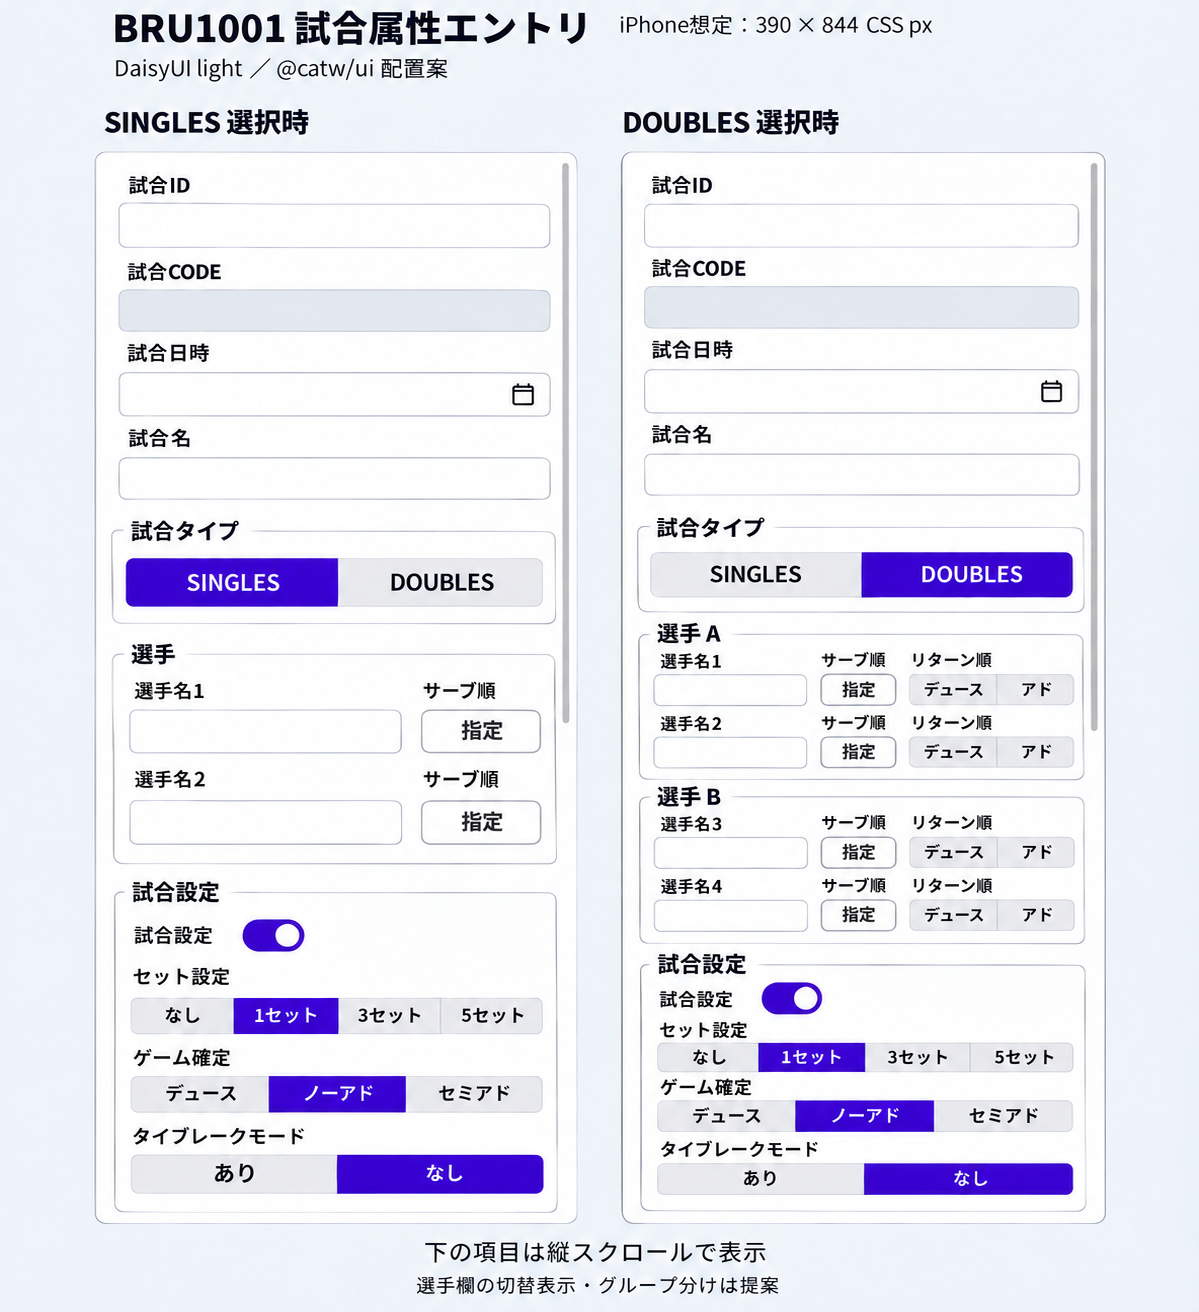
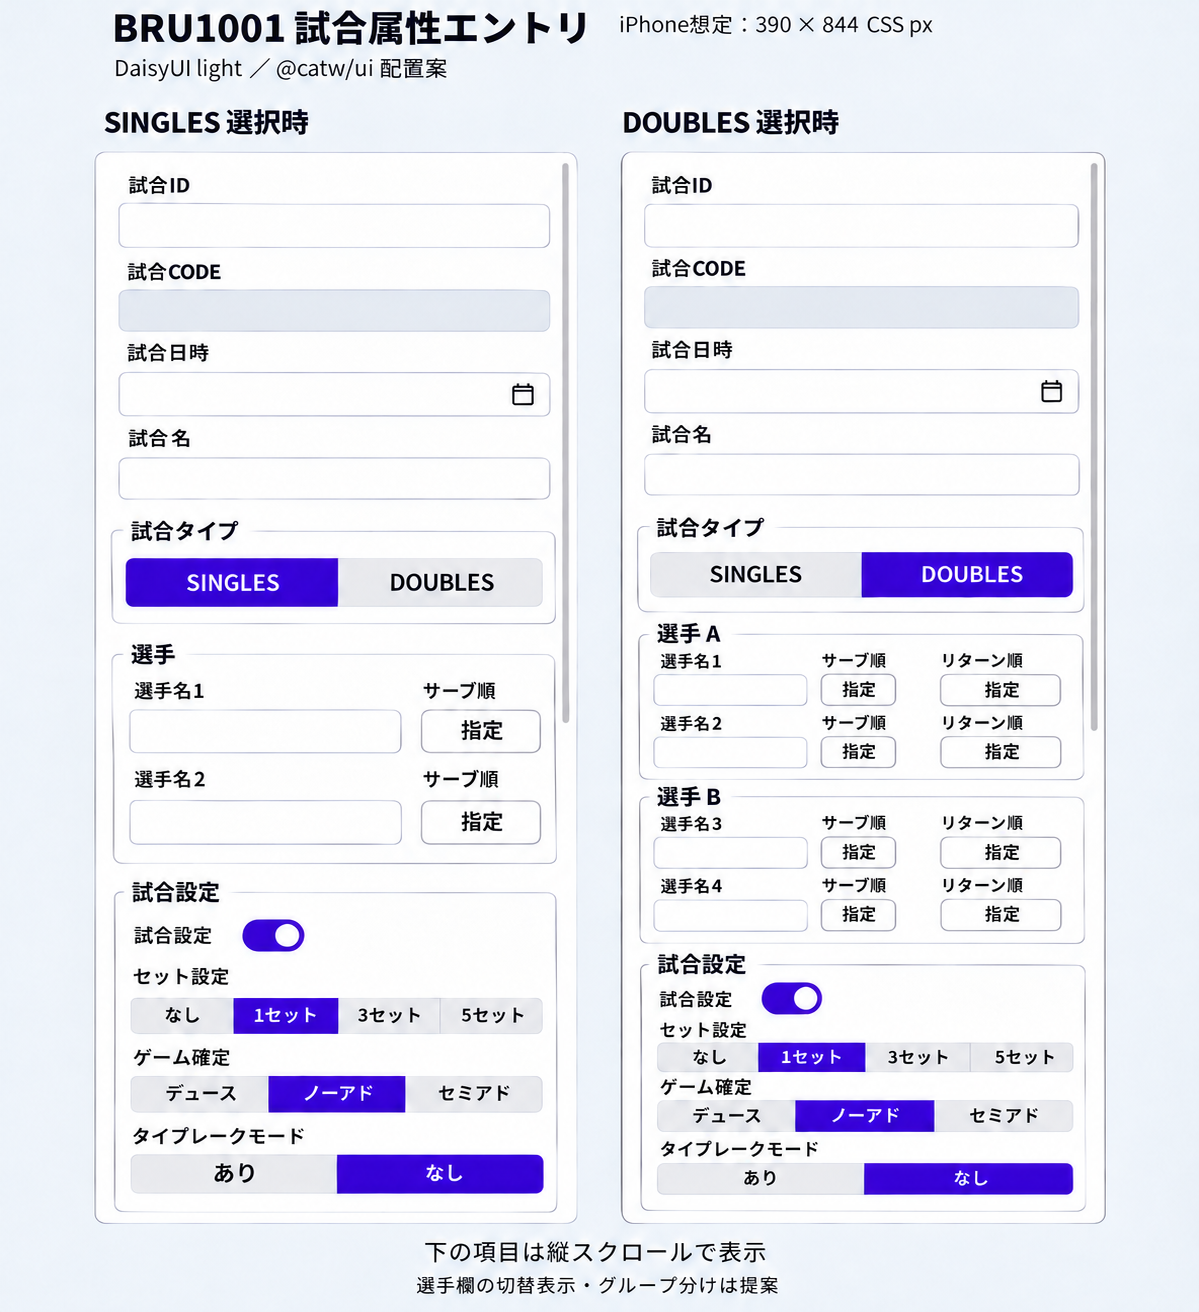
docs: switch BRU1001 return side with one button

diff --git a/09_画面設計書/04_画面設計書(BRU1001：試合属性エントリ).md b/09_画面設計書/04_画面設計書(BRU1001：試合属性エントリ).md
@@ -108,9 +108,8 @@ io\github\soracity\bruce\brf1000\brf1001\ui\dto
 
 ##### リターン順ボタン
 
-- DOUBLESの各選手の行に、「デュース」「アド」の2つのボタンを表示する。
+- DOUBLESの各選手の行に、リターン順を切り替えるボタンを1つ表示する。
 - 各行は左から「選手名」「サーブ順」「リターン順」の順に配置する。
-- リターン順は選手ごとの排他選択とし、同じ選手で両方を同時に選択できない。
 - SINGLESではリターン順ボタンを表示しない。
 
 | 選手 | 対象のDTO項目 |
@@ -120,18 +119,25 @@ io\github\soracity\bruce\brf1000\brf1001\ui\dto
 | 選手3（B1） | `returnNoDoublesPlayerB1` |
 | 選手4（B2） | `returnNoDoublesPlayerB2` |
 
-| ボタン表示 | 設定するEnum | コード値 |
-| --- | --- | --- |
-| デュース | `Brf9010CodeCourtSideEnum.DEUCE_SIDE` | 0 |
-| アド | `Brf9010CodeCourtSideEnum.AD_SIDE` | 1 |
-
 ###### 初期表示
 
-- 対応するDTO項目の現在値に一致するボタンを選択状態で表示する。
-- 未指定の場合は、両方のボタンを未選択状態で表示する。
+対応するDTO項目の現在値に応じて、同じボタンの表示を切り替える。
+
+| DTO項目の現在値 | ボタン表示 |
+| --- | --- |
+| 未指定 | 指定 |
+| `Brf9010CodeCourtSideEnum.DEUCE_SIDE`（コード値0） | デュース |
+| `Brf9010CodeCourtSideEnum.AD_SIDE`（コード値1） | アド |
 
 ###### ボタンを押した場合
 
-1. 押した選手に対応するDTO項目へ、押したボタンに対応するEnumを設定する。
-2. 押したボタンを選択状態とし、同じ選手のもう一方のボタンを未選択状態にする。
-3. 別のボタンを押すと選択を切り替える。選択済みのボタンを再度押した場合は、値と選択状態を維持し、未指定には戻さない。
+1. 押した選手に対応するDTO項目の現在値に応じて、次のEnumを設定する。
+2. 設定したEnumに合わせて、押したボタンの表示を更新する。
+
+| 押下前の状態・表示 | 押下後に設定するEnum | 押下後のボタン表示 |
+| --- | --- | --- |
+| 未指定・指定 | `Brf9010CodeCourtSideEnum.DEUCE_SIDE` | デュース |
+| デュース | `Brf9010CodeCourtSideEnum.AD_SIDE` | アド |
+| アド | `Brf9010CodeCourtSideEnum.DEUCE_SIDE` | デュース |
+
+未指定時は最初の押下でデュースを設定する。その後は押すたびに「デュース ⇄ アド」を切り替え、ボタン押下では未指定に戻さない。
